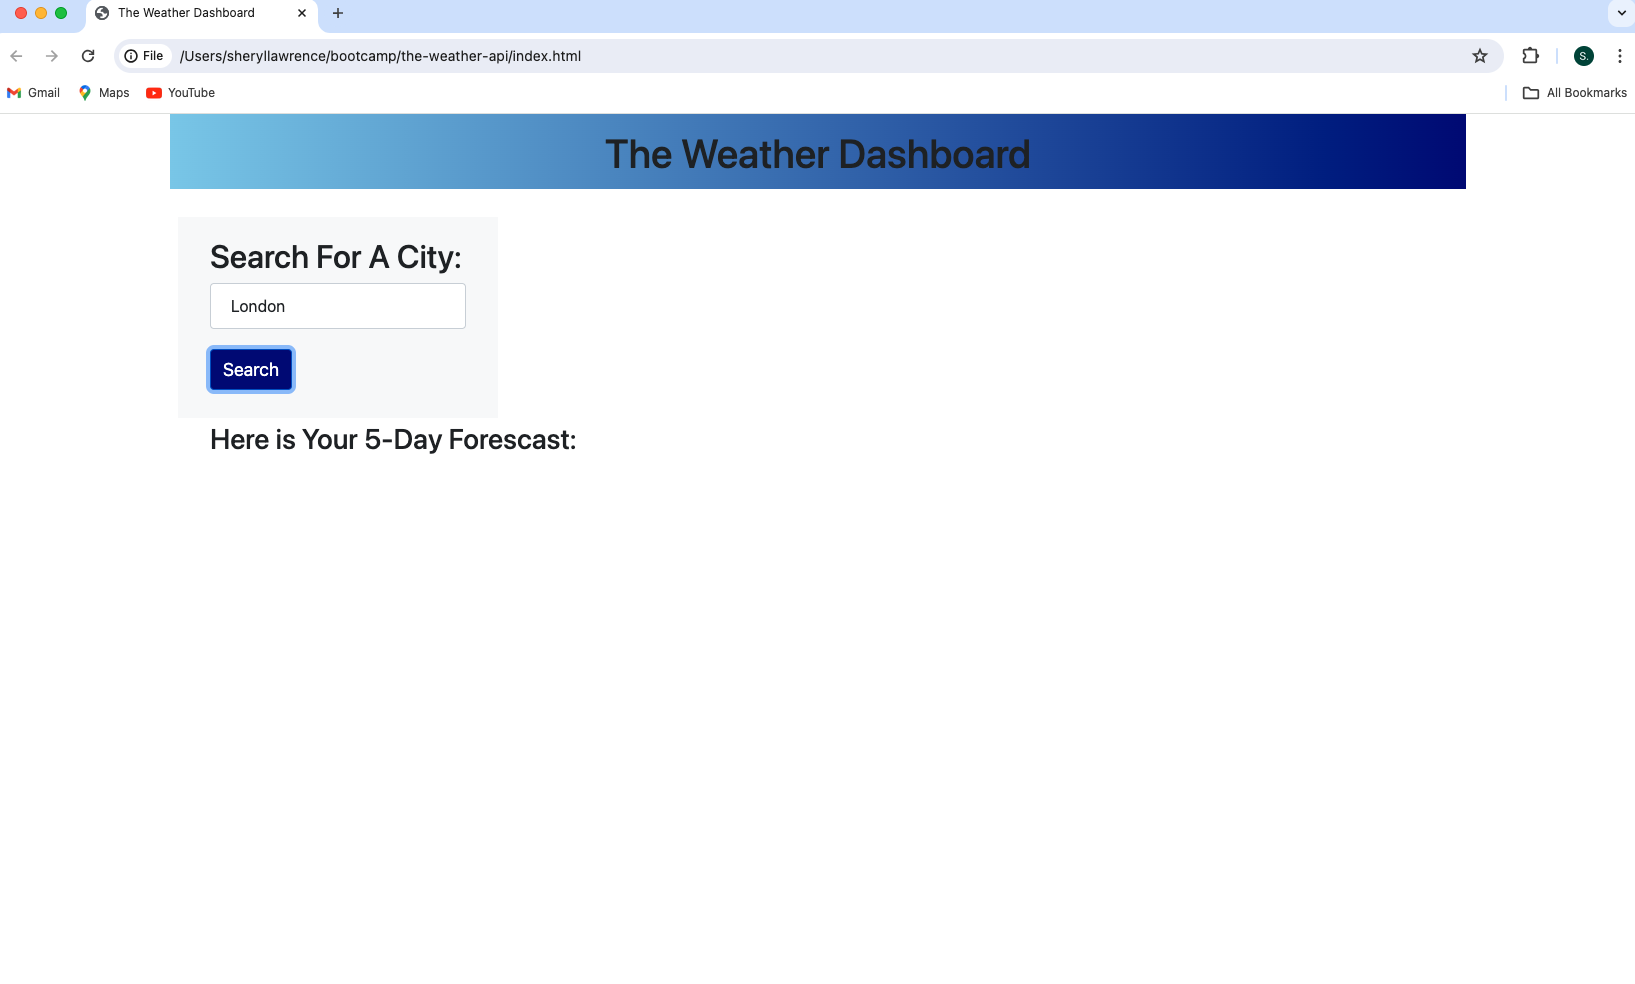
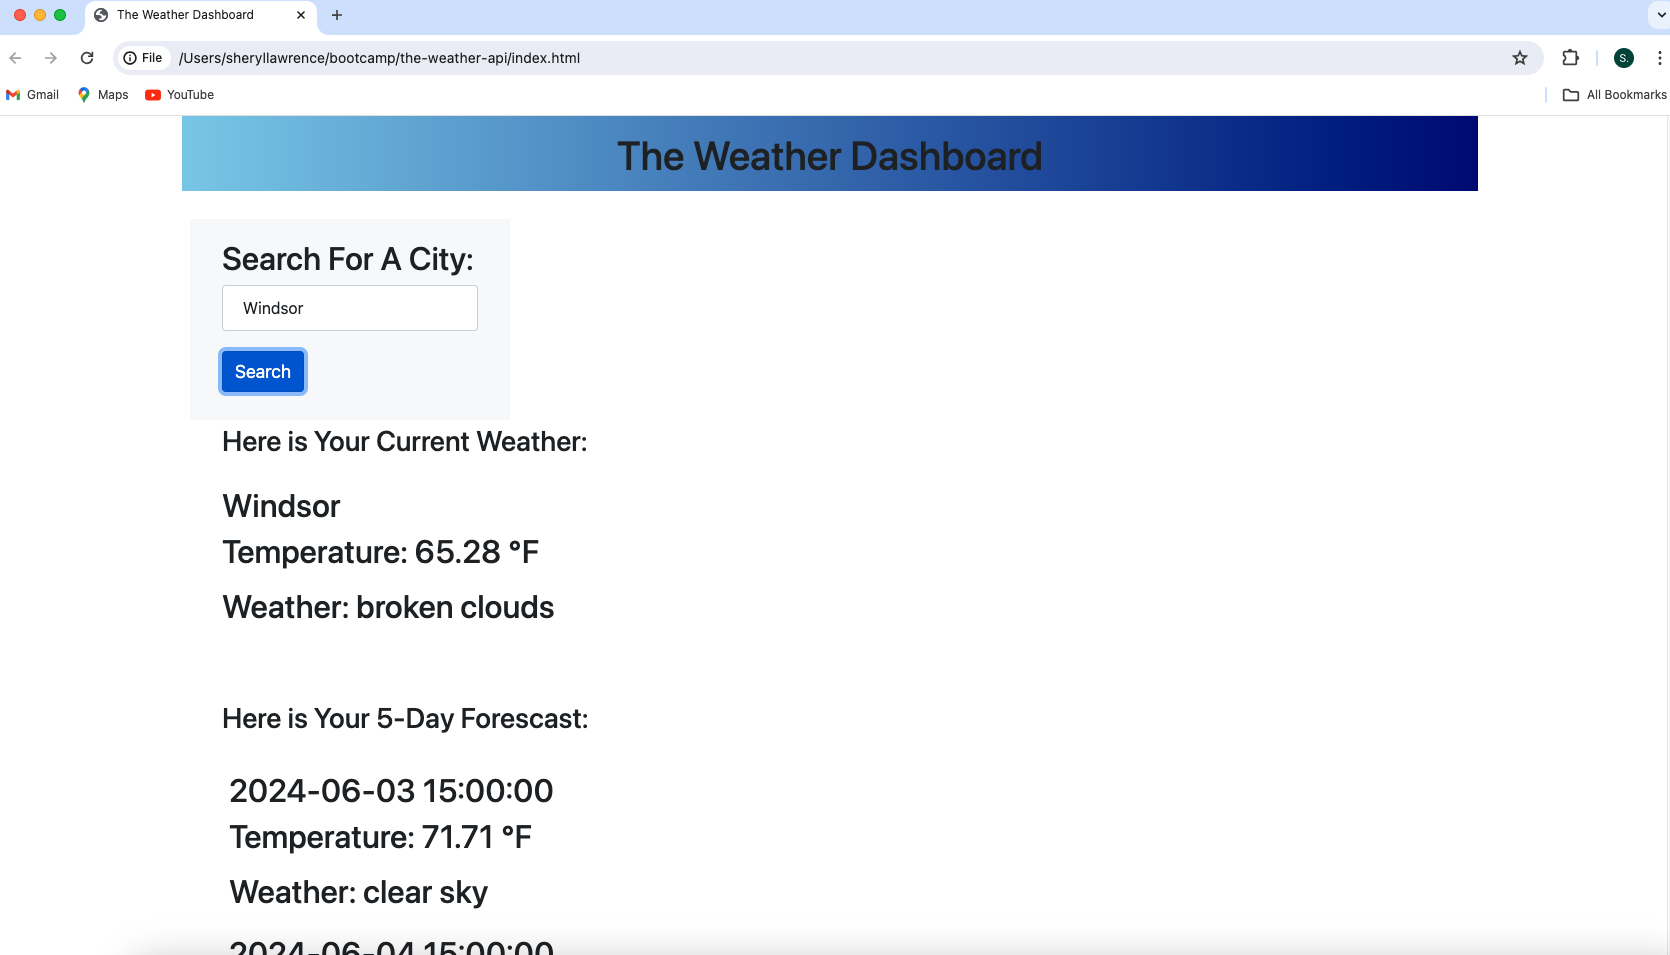
Screenshots added to images folder and README along wth alt text

diff --git a/assets/script.js b/assets/script.js
@@ -33,10 +33,11 @@ document.getElementById('searchButton').addEventListener('click', function() {
         document.getElementById('fiveDays').innerHTML = '<p>There was an error fetching this weather data</p>';
     });
 });
-
+// Function to display the five day forecast
 function displayForecast(data) {
     console.log('clicked');
     let weatherResults = ''
+    // For loop to loop through 40 object count with updated weather for every three hours 
     for (let i = 3; i < data.list.length; i += 8) {
         weatherResults += `
         <h2>${data.list[i].dt_txt}<h2>

diff --git a/README.md b/README.md
@@ -7,7 +7,9 @@ A five day weather application
 - This project utilizes JavaScript, local storage and the OpenWeather API and dynamically updated HTML and CSS. 
 - One challenge that arose when making this project was with time and the code being time consuming to write. For example, HTML and CSS, while not difficult to write, can be time consuming, especially when trying to obtain a particular format and styling. 
 - Another huge challenge was working with a new API and retreiving data from another application. Many errors came up initially with the API keys and API URL, but most were resolved using the websites documentation and through my console.log messages. 
-- There was also confusion around how to get an API key and the API URL  which yields five days results after searching any city. After implementing the information provided from the OpenWeather website, debugging and getting the API functioning, my weather results, regardless of the city searched or no city being provided, was the current (only) weather for London. There were also issues around the accuracy of the temperature provided. 
+- There was also confusion around how to get an API key and the API URL which yields five days results after searching any city. After implementing the information provided from the OpenWeather website, debugging and getting the API functioning, my weather results, regardless of the city searched or no city being provided, was the current (only) weather for London. There were also issues around the accuracy of the temperature provided. 
+- After resolving the above issue and adding a second fetch I was able to retrieve the weather for the any city searched and display the current conditions and five days of ether. 
+- For future development I will be working on the styling of this application, since functionality became the main priority.
 
 ## Usage
 - This webpage can be accessed by placing the URL in a browser. The webpage does not require any authentications, for example, a password. 
@@ -15,16 +17,18 @@ A five day weather application
 
 - Screenshots of this application
 
-![Screenshot of application open the browser](./images/screenshot1.png)
+![Screenshot of application open in browser](images/screenshot1.png)
 
-![Screenshot of application open the browser with the city London in the search/input box](./images/screenshot2.png)
+![Screenshot of application open in browser with city Windsor in the search/input box and current weather and 5 day forecast](images/screenshot2.png)
 
-![Screenshot of application open the browser with the weather results for London displayed on the page](./images/screenshot3.png)
+![Screenshot of application open in browser with city Windsor's full 5 day forecast results displayed on the page](images/screenshot3.png)
 
-![Screenshot of application open the browser with the same weather results as London, displayed on the page for Toronto](./images/screenshot4.png)
+![Screenshot of application open in browser with new search for city California in the search/input box and current weather and 5 day forecast](images/screenshot4.png)
+
+![Screenshot of application open in browser with city California's full 5 day forecast results displayed on the page](images/screenshot5.png)
 
 - Live link for this application 
-[x]https://slawcode.github.io/the-weather-dashboard/[y]
+[x][y]
 
 ## License 
 - There is no license for this project. 
@@ -32,6 +36,8 @@ A five day weather application
 ## Credits 
 
 Griffith, S. [Steve Griffith - Prof3ssorSt3v3]. (2021, August 31). OpenWeatherMap API Tutorial 2021 [Video]. YouTube. (https://www.youtube.com/watch?v=GJYMcLus3v0)
+
+Meyers, M. [2024, June 2]. Online tutoring session [Zoom].
 
 OpenWeather. (2024). https://openweathermap.org/api
 
